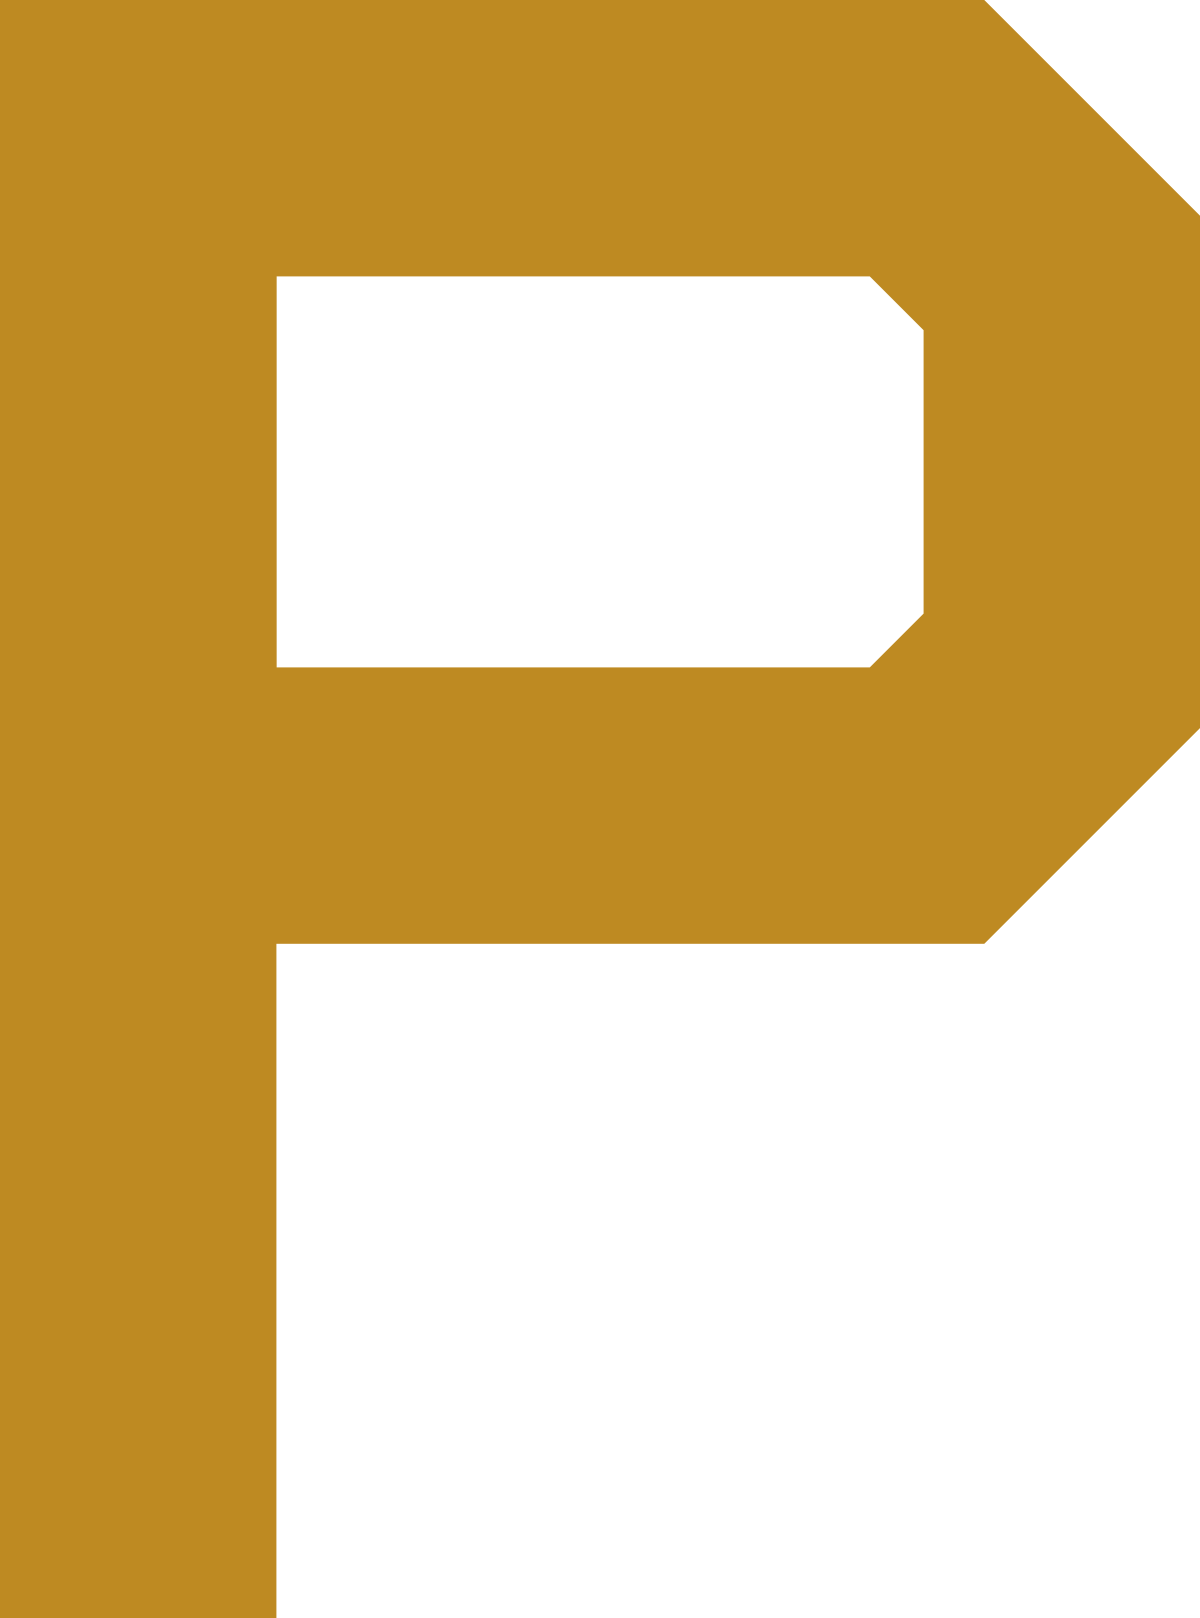
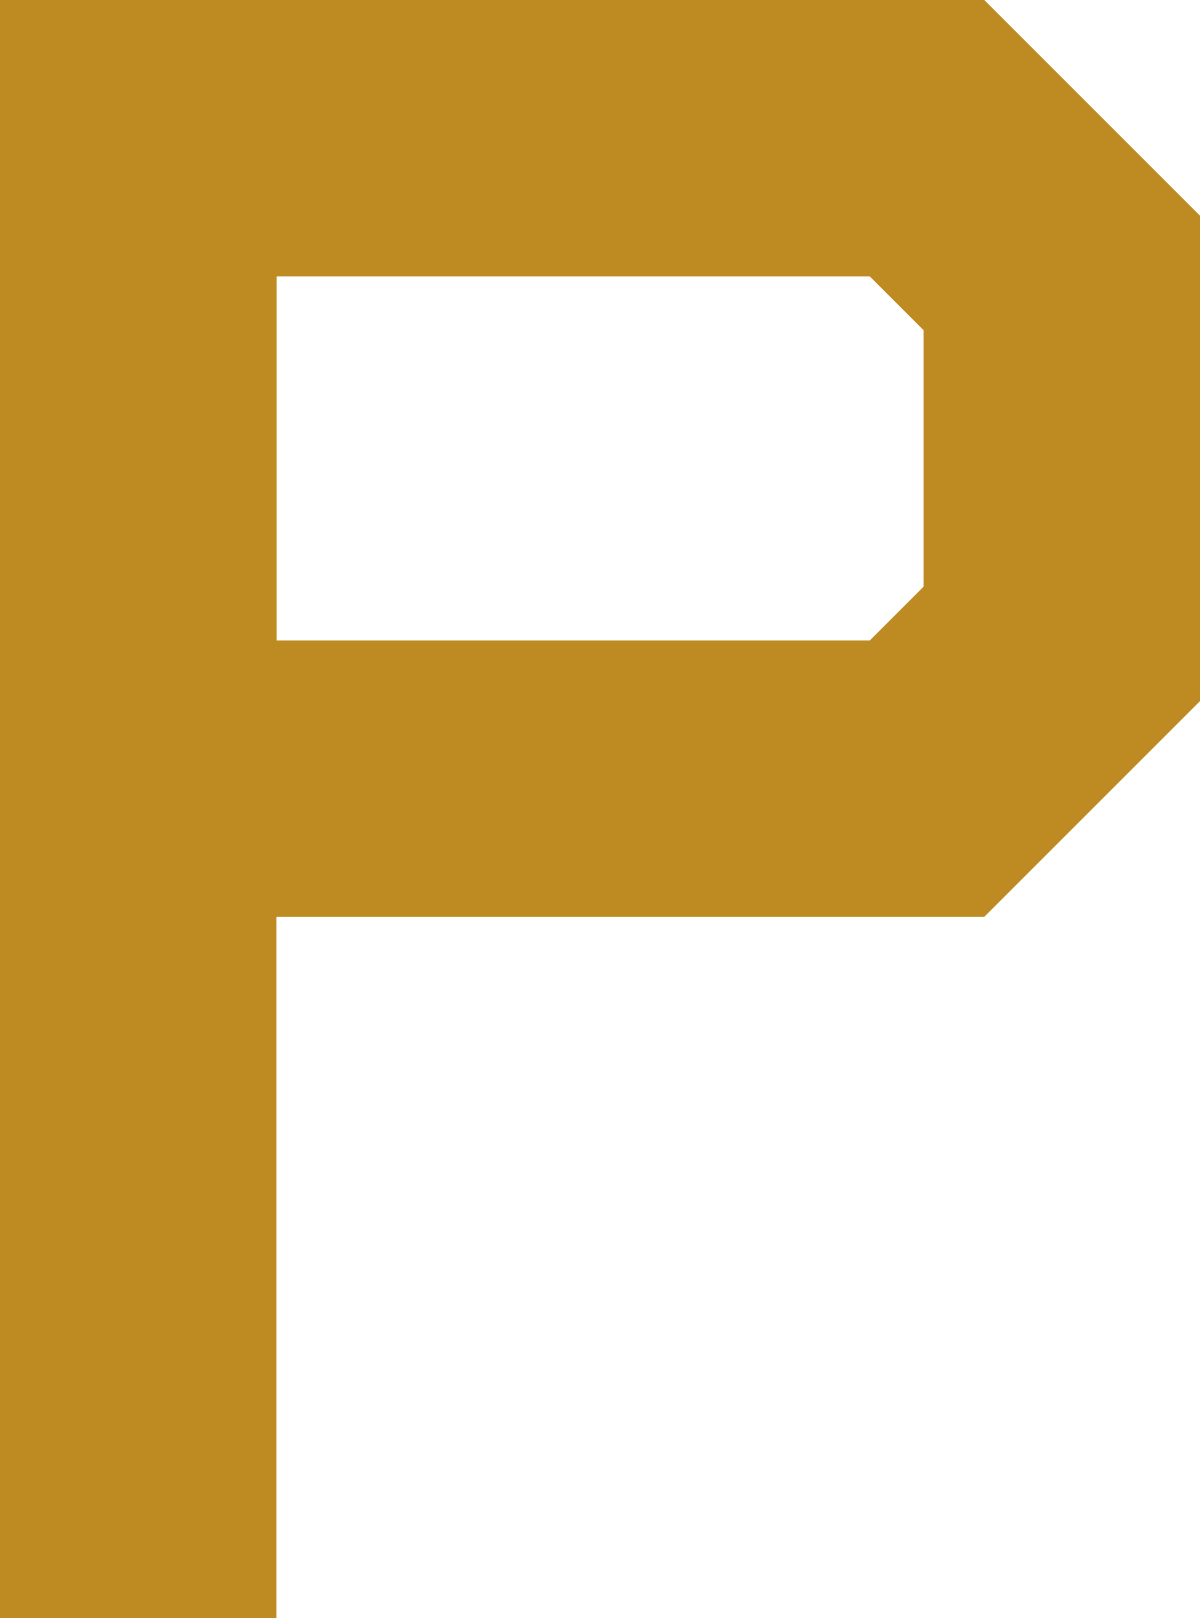
POGBUS GROUP : GROUP allégé, panses alignées, coupe unique dans l'alphabet
Retour client : « le mot GROUP a l'air trop gras ». Mesure faite, il
avait raison et c'était une faute de construction, pas une affaire de
goût : GROUP était dessiné à 21,7 % de graisse pour 8,3 % de coupe,
contre 17,1 % et 13,3 % pour POGBUS. Soit 27 % plus gras et 38 % moins
coupé en proportion — ce n'était pas le même alphabet en plus petit,
c'était une autre police.

- GROUP passe à 1,85 de graisse et 1,60 de coupe. La graisse est
  volontairement un peu sous celle de POGBUS : des capitales
  interlettrées paraissent plus grasses qu'elles ne le sont, il faut
  les alléger pour qu'elles semblent égales.
- bas de panse du P ramené de 7,00 à 6,80 et taille du B portée à 6,80 :
  les deux étaient décalées de 0,49 module (4,1 % de la capitale). 6,80
  est aussi la cote de la panse du R, donc les trois lettres s'alignent.
  Cote retenue plutôt que 6,51 pour garder la flèche du contrepoinçon
  visible à 16 px.
- terminaisons du S coupées à 1,60 au lieu de 1,54 : une seule valeur
  de coupe dans tout l'alphabet, sans exception.

Claude-Session: https://claude.ai/code/session_01X8pXWXamyLubBoXiHNJevR

Changed region(s): [[0.2158, 0.3708, 0.7708, 0.4326], [0.2158, 0.4944, 0.925, 0.5871], [0.925, 0.4326, 1.0, 0.4944]]

diff --git a/pogbus/src/alphabet.py b/pogbus/src/alphabet.py
@@ -57,7 +57,7 @@ def L_O(s, c, w=9.4):
 
 
 
-def L_P(s, c, w=8.9, bh=7.0):
+def L_P(s, c, w=8.9, bh=6.8):
     ci = creux(c, s)
     fut = d([(0, 0), (s, 0), (s, H), (0, H)])
     panse = d(oct_rect(0, 0, w, bh, c, DROITE)) + d(oct_rect(s, s, w - s, bh - s, ci, DROITE))
@@ -73,7 +73,7 @@ def L_R(s, c, w=9.1, bh=6.8):
 
 
 def L_B(s, c, w=9.0):
-    ci, taille = creux(c, s), H / 2 + s * 0.25
+    ci, taille = creux(c, s), 6.8   # alignée sur le bas de panse du P et du R
     fut = d([(0, 0), (s, 0), (s, H), (0, H)])
     haut = d(oct_rect(0, 0, w - 0.7, taille, c, DROITE)) + d(oct_rect(s, s, w - 0.7 - s, taille - s, ci, DROITE))
     bas = d(oct_rect(0, taille - s, w, H, c, DROITE)) + d(oct_rect(s, taille, w - s, H - s, ci, DROITE))
@@ -106,7 +106,7 @@ def L_U(s, c, w=9.2):
 
 def L_S(s, c, w=8.9):
     """S : polygone unique, terminaisons coupées à 45°. Pas de contour intérieur."""
-    t = s * 0.75
+    t = c   # une seule valeur de coupe dans tout l'alphabet
     mid, dm = H / 2, s / 2
     p = [(t, 0), (w - t, 0), (w, t), (w, s), (s, s), (s, mid - dm),
          (w - c, mid - dm), (w, mid - dm + c), (w, H - t), (w - t, H),

diff --git a/pogbus/src/final.py b/pogbus/src/final.py
@@ -17,6 +17,8 @@ BLANC = "#FFFFFF"
 
 S_MOT, C_MOT, APPRO = 2.05, 1.60, 1.45
 CAP_BASE, ECART_BASE, APPRO_BASE = 3.4, 1.9, 7.0
+# GROUP : mêmes proportions que POGBUS, allégé pour compenser l'interlettrage
+S_BASE, C_BASE = 1.85, 1.60
 
 
 def _lettre(ch, x, couleur, accent=None):
@@ -49,7 +51,7 @@ def logo(couleur=NOIR, accent=OR, baseline=True):
     if baseline:
         # GROUP : interlettrage fixe et mesuré, bloc centré sous POGBUS
         kb = CAP_BASE / H
-        gb, wb = mot("GROUP", s=2.6, c=1.0, appro=APPRO_BASE, couleur=couleur)
+        gb, wb = mot("GROUP", s=S_BASE, c=C_BASE, appro=APPRO_BASE, couleur=couleur)
         dx = (larg - wb * kb) / 2
         y = H + ECART_BASE
         parts.append(f'<g transform="translate({dx * U:.3f} {y * U:.3f}) scale({kb:.5f})">{gb}</g>')
